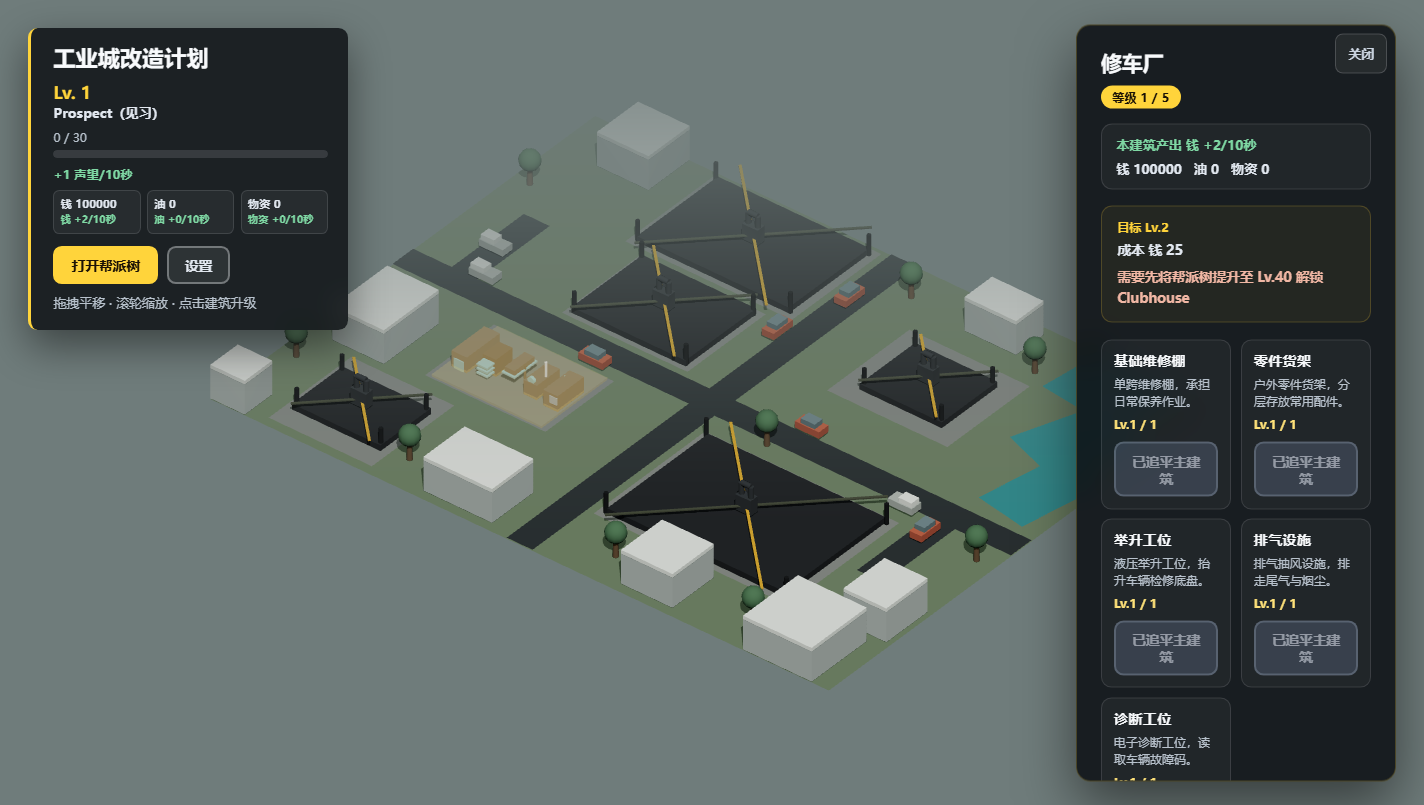
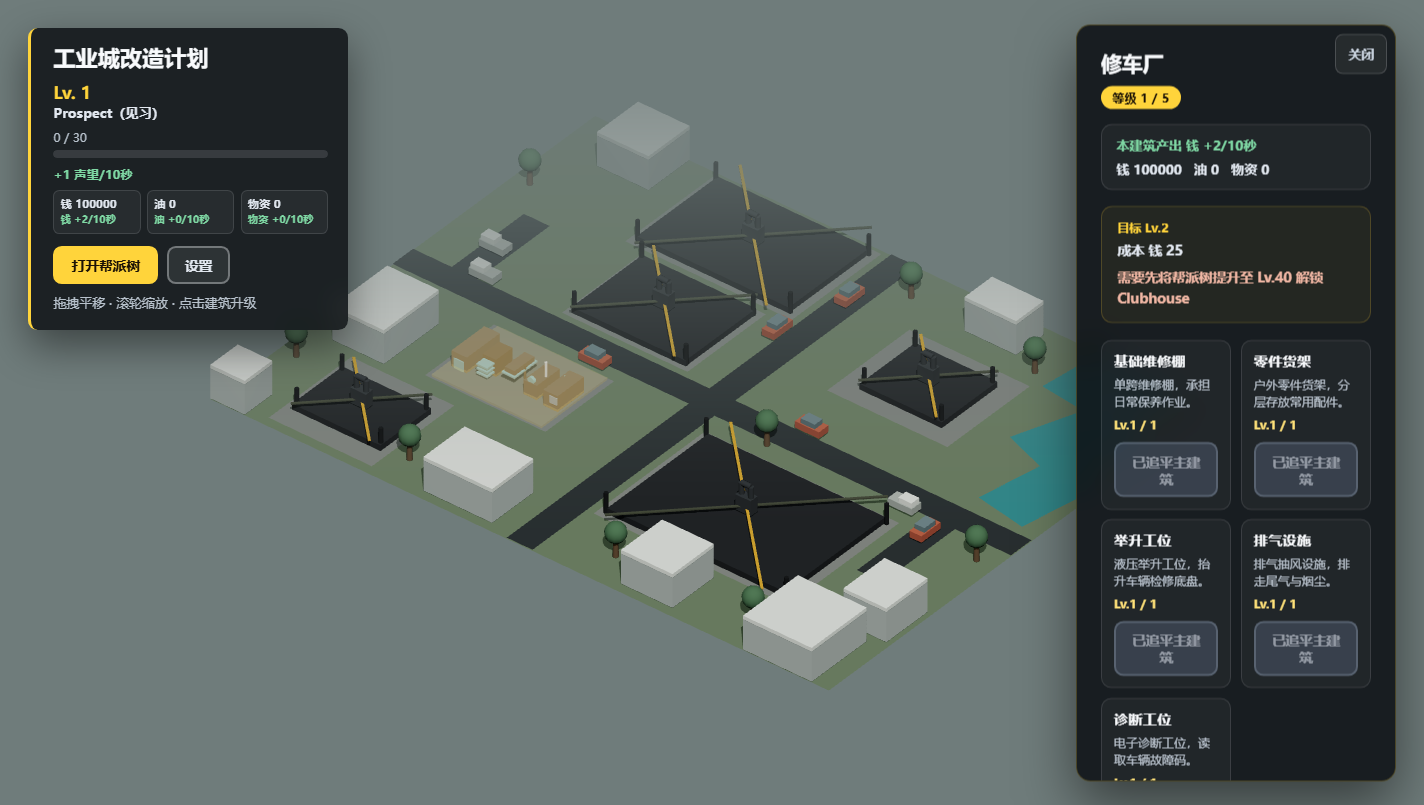
docs: refresh independent economy evidence
Record the final 420-test gate, reviewed clock rollback fix, and regenerated browser acceptance evidence before release.

diff --git a/.superpowers/sdd/independent-economy-report.md b/.superpowers/sdd/independent-economy-report.md
@@ -2,31 +2,31 @@
 
 **日期：** 2026-07-23
 **范围：** 文档、可重复安全 CDP 浏览器验收与本地发布证据。
-**发布状态：** 未 commit、未 push、未更新 GitHub Pages；分段提交、全分支终审与 Pages 发布均等待父代理。
+**发布状态：** 12 个逻辑分段提交与全分支终审已完成；尚未 push、尚未更新 GitHub Pages。
 
 ## 1. Fresh 工程门禁
 
 在干净工作区依次运行，全部退出码 0：
 
-| 命令                     | 结果                                                    |
-| ------------------------ | ------------------------------------------------------- |
-| `npm.cmd run format:check` | 通过（All matched files use Prettier code style）        |
-| `npm.cmd run typecheck`  | 通过（`tsc -b --pretty false`，退出码 0）               |
-| `npm.cmd run lint`       | 通过（`eslint .`，退出码 0）                            |
-| `npm.cmd test`           | 通过：**37 个测试文件、419 项测试**（vitest run）        |
-| `npm.cmd run build`      | 通过（`tsc -b && vite build`，退出码 0）                 |
+| 命令                       | 结果                                              |
+| -------------------------- | ------------------------------------------------- |
+| `npm.cmd run format:check` | 通过（All matched files use Prettier code style） |
+| `npm.cmd run typecheck`    | 通过（`tsc -b --pretty false`，退出码 0）         |
+| `npm.cmd run lint`         | 通过（`eslint .`，退出码 0）                      |
+| `npm.cmd test`             | 通过：**37 个测试文件、420 项测试**（vitest run） |
+| `npm.cmd run build`        | 通过（`tsc -b && vite build`，退出码 0）          |
 
 构建资产（`vite v8.1.5`）：
 
-| 资产                              | 大小        | gzip      |
-| --------------------------------- | ----------- | --------- |
-| `dist/index.html`                 | 0.41 kB     | 0.27 kB   |
-| `dist/assets/index-BSltOOxX.css`  | 15.13 kB    | 3.32 kB   |
-| `dist/assets/index-BJ6q-ZtE.js`   | 1,156.65 kB | 319.65 kB |
+| 资产                             | 大小        | gzip      |
+| -------------------------------- | ----------- | --------- |
+| `dist/index.html`                | 0.41 kB     | 0.27 kB   |
+| `dist/assets/index-BSltOOxX.css` | 15.13 kB    | 3.32 kB   |
+| `dist/assets/index-BqDEkGFJ.js`  | 1,156.68 kB | 319.66 kB |
 
 `dist/index.html` 的资源引用均以 `/DobeDemo/` 开头：
 
-- `/DobeDemo/assets/index-BJ6q-ZtE.js`
+- `/DobeDemo/assets/index-BqDEkGFJ.js`
 - `/DobeDemo/assets/index-BSltOOxX.css`
 
 > 构建的 “chunks larger than 500 kB” 只是提示（stderr），构建退出码为 0，非错误。
@@ -53,31 +53,31 @@
 
 真实 Chrome（headless，1440×900）经 CDP 驱动。允许注入合法 v2 `localStorage` 并 reload 加速场景，但下列真实交互均实际发生：真实等待 10 秒钱产出、真实鼠标点击第 5 个修车厂子建筑、真实点击 Clubhouse/修车厂主建筑升级、真实测量移动视口。
 
-| # | 断言 | 证据 |
-| --- | --- | --- |
-| 1 | fresh v2 存档：修车厂 Lv.1、5 子建筑全 0、资源全 0 | `city.version=2`，`repair-shop {level:1, childLevels:[0,0,0,0,0]}`，`resources {0,0,0}` |
-| 1b | HUD 显示 `+1 声望/10秒` 与 `钱 +1/10秒` | HUD rate `+1 声望/10秒`，资源含 `钱 +1/10秒` |
-| 2 | 10 秒后钱精确 +1 | `moneyBefore=0` → `moneyAfter=1`（9.999 秒无收益由纯单测覆盖） |
-| 3 | 真实点击第 5 个修车厂子建筑（诊断工位），数组变 `[0,0,0,0,1]` 并扣 5 钱 | `childLevelsBefore=[0,0,0,0,0]`，`childLevelsAfter=[0,0,0,0,1]`，`moneySpent=5` |
-| 4 | 第 5 槽 3D ROI 变化，其余子建筑数据不变 | ROI 变化 **650/125320 px**（阈值 40），其余 index 保持 0 |
-| 5 | 五子建筑全 Lv.1 后 Clubhouse 未解锁精确提示 | `需要先将帮派树提升至 Lv.40 解锁 Clubhouse` |
-| 6 | 注入帮派 Lv.40、Clubhouse Lv.1 后门槛提示 | `需要先将 Clubhouse 提升至 Lv.2` |
-| 7 | 真实升级 Clubhouse 10 子建筑→Lv.2，再升修车厂→Lv.2 | Clubhouse `等级 1/10`→`等级 2/10`（存档 2）；修车厂 `等级 1/5`→`等级 2/5`（存档 2，childLevels `[1,1,1,1,1]`） |
-| 8 | 刷新后钱包、active producers、主/子等级持久 | 刷新后 repair Lv.2 `[1,1,1,1,1]`、clubhouse Lv.2、producers `[repair-shop, commercial-street, metalworking-plant, gas-station]`、钱包 `99954`→`99954` |
-| 9 | 激活商业街/加油站/金属加工厂后三资源按配置增长 | 一个 tick 后 `money=3, oil=1, materials=1`（钱=油×3、物资=油），HUD `钱 +3/10秒`、`油 +1/10秒`、`物资 +1/10秒` |
-| 10 | 非 Clubhouse Lv.5、Clubhouse Lv.10 上限注入后按钮禁用 | 修车厂 `等级 5/5` 无主升级按钮、`已达到最高等级 Lv.5`；Clubhouse `等级 10/10` 无主升级按钮、`已达到最高等级 Lv.10` |
-| 11 | 390×844 无横向溢出且可滚动 | `withinBounds=true`、`noHorizontalOverflow=true`、`scrollableOrFits=true` |
-| 12 | dev/CDP 端口释放、临时 profile 删除、仅 owned PID 被 targeting | `devPortReleased/cdpPortReleased/tempProfileRemoved=true`，`unknownProcessesTerminated=false`，killAttempts 全 owned |
+| #   | 断言                                                                    | 证据                                                                                                                                                  |
+| --- | ----------------------------------------------------------------------- | ----------------------------------------------------------------------------------------------------------------------------------------------------- |
+| 1   | fresh v2 存档：修车厂 Lv.1、5 子建筑全 0、资源全 0                      | `city.version=2`，`repair-shop {level:1, childLevels:[0,0,0,0,0]}`，`resources {0,0,0}`                                                               |
+| 1b  | HUD 显示 `+1 声望/10秒` 与 `钱 +1/10秒`                                 | HUD rate `+1 声望/10秒`，资源含 `钱 +1/10秒`                                                                                                          |
+| 2   | 10 秒后钱精确 +1                                                        | `moneyBefore=0` → `moneyAfter=1`（9.999 秒无收益由纯单测覆盖）                                                                                        |
+| 3   | 真实点击第 5 个修车厂子建筑（诊断工位），数组变 `[0,0,0,0,1]` 并扣 5 钱 | `childLevelsBefore=[0,0,0,0,0]`，`childLevelsAfter=[0,0,0,0,1]`，`moneySpent=5`                                                                       |
+| 4   | 第 5 槽 3D ROI 变化，其余子建筑数据不变                                 | ROI 变化 **650/125320 px**（阈值 40），其余 index 保持 0                                                                                              |
+| 5   | 五子建筑全 Lv.1 后 Clubhouse 未解锁精确提示                             | `需要先将帮派树提升至 Lv.40 解锁 Clubhouse`                                                                                                           |
+| 6   | 注入帮派 Lv.40、Clubhouse Lv.1 后门槛提示                               | `需要先将 Clubhouse 提升至 Lv.2`                                                                                                                      |
+| 7   | 真实升级 Clubhouse 10 子建筑→Lv.2，再升修车厂→Lv.2                      | Clubhouse `等级 1/10`→`等级 2/10`（存档 2）；修车厂 `等级 1/5`→`等级 2/5`（存档 2，childLevels `[1,1,1,1,1]`）                                        |
+| 8   | 刷新后钱包、active producers、主/子等级持久                             | 刷新后 repair Lv.2 `[1,1,1,1,1]`、clubhouse Lv.2、producers `[repair-shop, commercial-street, metalworking-plant, gas-station]`、钱包 `99954`→`99954` |
+| 9   | 激活商业街/加油站/金属加工厂后三资源按配置增长                          | 一个 tick 后 `money=3, oil=1, materials=1`（钱=油×3、物资=油），HUD `钱 +3/10秒`、`油 +1/10秒`、`物资 +1/10秒`                                        |
+| 10  | 非 Clubhouse Lv.5、Clubhouse Lv.10 上限注入后按钮禁用                   | 修车厂 `等级 5/5` 无主升级按钮、`已达到最高等级 Lv.5`；Clubhouse `等级 10/10` 无主升级按钮、`已达到最高等级 Lv.10`                                    |
+| 11  | 390×844 无横向溢出且可滚动                                              | `withinBounds=true`、`noHorizontalOverflow=true`、`scrollableOrFits=true`                                                                             |
+| 12  | dev/CDP 端口释放、临时 profile 删除、仅 owned PID 被 targeting          | `devPortReleased/cdpPortReleased/tempProfileRemoved=true`，`unknownProcessesTerminated=false`，killAttempts 全 owned                                  |
 
 ## 4. 截图（均由脚本生成、非空）
 
-| 文件 | 内容 | 大小 |
-| --- | --- | --- |
-| `independent-economy-initial.png` | fresh v2：修车厂 Lv.1、5 子建筑全脚手架、三资源 HUD 归零 | 133 KB |
-| `independent-economy-free-choice.png` | 真实点击后第 5 子建筑（诊断工位）Lv.1，其余为脚手架，三资源 HUD | 182 KB |
-| `independent-economy-gate.png` | Clubhouse 未解锁门槛文本 | 182 KB |
-| `independent-economy-resources.png` | Lv.40 下 `钱 +3/10秒`、`油 +1/10秒`、`物资 +1/10秒`，全城建筑解锁 | 148 KB |
-| `independent-economy-mobile.png` | 390×844 建筑面板底部抽屉，无横向溢出 | 98 KB |
+| 文件                                  | 内容                                                              | 大小   |
+| ------------------------------------- | ----------------------------------------------------------------- | ------ |
+| `independent-economy-initial.png`     | fresh v2：修车厂 Lv.1、5 子建筑全脚手架、三资源 HUD 归零          | 133 KB |
+| `independent-economy-free-choice.png` | 真实点击后第 5 子建筑（诊断工位）Lv.1，其余为脚手架，三资源 HUD   | 182 KB |
+| `independent-economy-gate.png`        | Clubhouse 未解锁门槛文本                                          | 182 KB |
+| `independent-economy-resources.png`   | Lv.40 下 `钱 +3/10秒`、`油 +1/10秒`、`物资 +1/10秒`，全城建筑解锁 | 148 KB |
+| `independent-economy-mobile.png`      | 390×844 建筑面板底部抽屉，无横向溢出                              | 98 KB  |
 
 > 另有中间证据 `independent-economy-free-choice-before.png`（点击前脚手架态），用于 ROI 前后像素差比对。
 
@@ -92,21 +92,23 @@
 
 ## 6. 文档更新
 
-- `README.md`：改写核心玩法为独立子建筑（修车厂 5/其余 10、Lv.0 自由升级）、三资源生产与 8 小时离线、每 10 秒 +1 声望、Clubhouse 上限/门槛、`economy.config.json` 配置 EXE 契约；测试基线更新为 37 文件/419 项；新增本验收脚本引用；删除旧固定顺序碎片与每秒 5 声望表述。
+- `README.md`：改写核心玩法为独立子建筑（修车厂 5/其余 10、Lv.0 自由升级）、三资源生产与 8 小时离线、每 10 秒 +1 声望、Clubhouse 上限/门槛、`economy.config.json` 配置 EXE 契约；测试基线更新为 37 文件/420 项；新增本验收脚本引用；删除旧固定顺序碎片与每秒 5 声望表述。
 - `session/requirements/gang-tree-idle-unlocks.md`：删除“每秒 5 声望”“固定顺序碎片闭环”矛盾文本，改为每 10 秒 +1 与独立子建筑三资源闭环，注明配置 JSON 契约。
 - `session/session.md`：更新当前目标，新增独立经济与 Task6 本地验收两条变更总账。
-- `docs/superpowers/plans/2026-07-23-independent-subbuilding-economy.md`：勾选 Task 1–5 全部步骤与 Task 6 Step 1–4；Step 5（分段提交与终审）、Step 6（推送和 Pages）保持未勾，待父代理。
+- `docs/superpowers/plans/2026-07-23-independent-subbuilding-economy.md`：勾选 Task 1–5 全部步骤与 Task 6 Step 1–5；Step 6（推送和 Pages）保持未勾。
 
-## 7. 待父代理发布步骤（本次未执行）
+## 7. 全分支终审
 
-1. 按审查通过的逻辑分段提交到 `main`（config+纯规则 → v2 迁移+原子 Store → idle+HUD → 独立 3D → 自由选择面板 → 验收+文档）。
-2. 运行全分支审查，修复所有 Critical/Important，再跑一次 fresh 全门禁。
-3. 普通推送 `main`（禁止 force push）。
-4. fresh `dist`（`/DobeDemo/` base）经独立临时 index 快进更新 `gh-pages`。
-5. 等待最新 Pages build 的 commit 精确匹配且 `status=built`，校验公开 HTML 与当前 JS/CSS HTTP 200。
-6. 真实 Chrome 加载公开 URL 截图（三资源 HUD + 修车厂五子建筑面板），更新发布报告与 session，再次普通推送 `main`。
+完整分支 `116ea09..2f227e2` 终审结论为 **Approved**，无 Critical/Important。终审指出系统时钟回拨且生产者集合变化时，生产时间戳可能被回拨；已用 RED→GREEN 回归测试修复为不早于结算时间戳。修复增量 `2f227e2..f52dea8` 复审同样为 **Approved**，并在修复后 fresh 运行全部工程门禁与浏览器验收。
 
-## 8. 复现命令
+## 8. 待发布步骤
+
+1. 普通推送 `main`（禁止 force push）。
+2. fresh `dist`（`/DobeDemo/` base）经独立临时 index 快进更新 `gh-pages`。
+3. 等待最新 Pages build 的 commit 精确匹配且 `status=built`，校验公开 HTML 与当前 JS/CSS HTTP 200。
+4. 真实 Chrome 加载公开 URL 截图（三资源 HUD + 修车厂五子建筑面板），更新发布报告与 session，再次普通推送 `main`。
+
+## 9. 复现命令
 
 ```powershell
 npm.cmd run format:check

diff --git a/session/session.md b/session/session.md
@@ -10,38 +10,38 @@
 
 ## 角色
 
-| 角色 | 职责 |
-|------|------|
-| 用户（游戏策划/制作人） | 提出需求、确认设计、验收 Demo |
+| 角色                    | 职责                                |
+| ----------------------- | ----------------------------------- |
+| 用户（游戏策划/制作人） | 提出需求、确认设计、验收 Demo       |
 | 助手（Demo 技术负责人） | 实现可运行 Demo、维护工程与治理文档 |
 
 ## 变更总账
 
-| 日期 | 变更摘要 | 类型 |
-|------|----------|------|
-| 2026-07-22 | 初始化项目治理文档：创建 `rules/`、`session/`、`mistakes/`、`docs/beagle_glossary.md`；将三份规范移至 `spec/` | 脚手架 |
-| 2026-07-22 | 完成工程配置、Zustand store、HUD、3D 场景、错误边界与应用组装；全量通过格式、类型、Lint、8 项测试（4 个测试文件）、生产构建及开发服务器 HTTP 200 验证 | 环境交付 |
-| 2026-07-22 | 新增城市建筑数据、目录与升级纯函数（`src/game`），六座建筑类型、footprint、配色与三级说明 | 城市数据 |
-| 2026-07-22 | 新增 `useCityStore`（选中/升级/清空选择/reset），替代旧 `useDemoStore` 承载城市互动状态 | 城市状态 |
-| 2026-07-22 | 新增 `CityHud`、`BuildingPanel` 城市 UI 组件及交互测试（含事件不外泄父级场景） | 城市 UI |
-| 2026-07-22 | 新增六类建筑三级程序化几何视觉配置（`buildingVisualConfig`）与命中盒高度不变量校验 | 城市模型 |
-| 2026-07-22 | 新增城市地面、静态环境、镜头平移边界约束与 `CityScene` 场景组合；完整静态布局空间不重叠校验 | 城市场景 |
-| 2026-07-22 | `App.tsx` 切换为正交相机 + `CityScene` + `CityHud` + `BuildingPanel`；新增响应式桌面控制台样式（`App.css`，小屏底部抽屉、`prefers-reduced-motion`）；删除旧 Demo 文件（`DemoScene`、`RotatingCube`、`useDemoStore`、`DemoHud` 及其测试） | 集成与验证 |
-| 2026-07-22 | 全量通过格式、类型、Lint、Format Check、测试（10 个测试文件、61 项）、生产构建及开发服务器 HTTP 200 验证；无头 Chrome 截图确认城市场景渲染 | 集成与验证 |
-| 2026-07-22 | 将建筑序列调整为修车厂、废车回收厂、商业街、金属加工厂、加油站、Clubhouse；以金属加工厂替换物流中心并补齐三级程序化视觉 | 帮派建筑 |
-| 2026-07-22 | 新增 1–50 级帮派进度纯规则：七个职位阈值、六建筑解锁映射、每级 30 声望、每秒 5 声望、1470 满级封顶与 8 小时离线结算 | 帮派规则 |
-| 2026-07-22 | 新增持久 `useGangStore`、安全 localStorage 内存回退和 `GangIdleController`；覆盖完整秒余量、系统时间异常、StrictMode、rehydrate 与离线 cap | 帮派状态 |
-| 2026-07-22 | 新增 HUD 帮派进度、50 节点帮派树 modal、锁定建筑信息面板、程序化 3D 锁定地块及达到阈值后的实时建筑切换 | 帮派 UI 与场景 |
-| 2026-07-22 | 帮派树系统全量通过格式、类型、Lint、测试（17 个测试文件、182 项）、生产构建和 `127.0.0.1:5176` HTTP 200；两张无头 Chrome 截图确认默认锁定城市与帮派树面板 | 集成与验证 |
-| 2026-07-22 | 初始化 Git 并保留远端初始历史，将工程、规则、场景、文档、图片和发布配置拆分为 6 个主线提交；最大单文件约 2.75 MB | 版本发布 |
-| 2026-07-22 | 推送 `main` 与独立 `gh-pages` 产物分支，GitHub Pages 构建成功；公开地址及 JS/CSS 资源均返回 HTTP 200 | GitHub Pages |
-| 2026-07-23 | 城市严格重排：共享 AABB 几何工具（`placementGeometry.ts`）+ 碰撞矩阵校验；六座建筑同心落于地块、道路/河流/树/车辆保持 0.2–0.35 安全间距、主路十字与两支路连续 | 城市布局 |
-| 2026-07-23 | 输入手势升级：左键/右键/单指显式映射 PAN、双指 DOLLY_PAN；指针拖动跟踪（阈值 6px）+ 误点击抑制 + 光标归属，覆盖 Chrome pointerup→lostpointercapture→click 序列 | 输入手势 |
-| 2026-07-23 | Task5 最终验收：格式/类型/Lint/测试（26 文件、278 项）/构建全绿；`127.0.0.1:5177` HTTP 200；Chrome/CDP 真机左键/右键/单指拖动前后像素差 26%–29%，普通点击出面板、拖动 >6px 不误选；未 commit/push、Pages 未更新 | 集成与验证 |
-| 2026-07-23 | 碎片升级：六座建筑改为 1–10 级碎片闭环（升到 Lv.N 逐个完成 N 个子建筑再确认），程序化十槽子建筑蓝图 + 3D 入场动画 + Setup 面板；城市进度持久化于 `dobe-city-progression-v1` | 碎片升级 |
-| 2026-07-23 | 碎片升级 Task6 验收：格式/类型/Lint/测试（32 文件、391 项）/构建全绿；`dist` 资源以 `/DobeDemo/` 开头；`127.0.0.1:5188` HTTP 200；Chrome/CDP 真机点修车厂 Lv.1/10·0/2→逐碎片 1/2（Canvas 变化 299px）→刷新持久→确认 Lv.2·0/3→注入 Lv.10 存档满级 10 格禁用；桌面 1440×900 与移动 390×844 面板不溢出可滚动；未 commit/push、Pages 未更新 | 集成与验证 |
-| 2026-07-23 | 碎片升级发布：13 个分段提交普通推送到 `main`；参考视频 13,691,237 bytes 独立提交；`gh-pages` 更新至 `46a9025`。公开首页及当前 JS/CSS 均 HTTP 200，真实 Chrome 加载截图确认新城市版本渲染；最终跨任务审查无 Critical/Important | GitHub Pages |
-| 2026-07-23 | 调试设置账号重置：HUD 设置入口、可访问设置面板、二次确认及双 Zustand store 协调重置已集成；本地格式/类型/Lint/测试（34 文件、404 项）/构建全绿。安全 Chrome/CDP 八步验收 33/33 通过，确认态、重置完成和 390×844 移动抽屉截图齐全；仅终止脚本自建 PID 并释放端口、清理独立 profile。未 commit/push，公开发布待父代理发布 | 集成与验证 |
-| 2026-07-23 | 调试设置发布：6 个分段提交普通推送到 `main`；`gh-pages` 快进至 `1d58eff`，Pages 构建 `built`。公开首页及当前 JS/CSS 均 HTTP 200，真实 Chrome 截图确认“设置”入口与 3D 城市正常渲染；全分支终审无 Critical/Important | GitHub Pages |
-| 2026-07-23 | 独立子建筑与三资源经济：固定顺序碎片改为独立子建筑自由升级（修车厂 5/其余 10、Lv.0 起、追平后升主建筑）、新增钱/油/物资 10 秒生产与升级消耗、Clubhouse Lv.10 其余 Lv.5 上限与门槛、帮派每 10 秒 +1、v1→v2 迁移与原子 Store；数值外置到 `economy.config.json`（冻结配置 EXE 契约，本次无 EXE） | 独立经济 |
-| 2026-07-23 | 独立经济 Task6 本地验收：fresh 门禁 format/typecheck/lint/测试（37 文件、419 项）/构建全绿，`dist` 资源以 `/DobeDemo/` 开头；安全 Chrome/CDP 脚本 `independent-economy-cdp.mjs` 12 项断言全通过（fresh v2、10 秒 +1 钱、真实点击第 5 子建筑数组[0,0,0,0,1]+ROI 变化 650px、两条 Clubhouse 门槛文本、Clubhouse→修车厂真实升级闭环、刷新持久、三资源 10 秒 3/1/1、Lv.5/Lv.10 禁用、390×844 无横向溢出）；仅终止自建 PID、端口释放、临时 profile 清理。未 commit/push，分段提交与 Pages 待父代理 | 集成与验证 |
+| 日期       | 变更摘要                                                                                                                                                                                                                                                                                                                                                                                                                                                                                  | 类型           |
+| ---------- | ----------------------------------------------------------------------------------------------------------------------------------------------------------------------------------------------------------------------------------------------------------------------------------------------------------------------------------------------------------------------------------------------------------------------------------------------------------------------------------------- | -------------- |
+| 2026-07-22 | 初始化项目治理文档：创建 `rules/`、`session/`、`mistakes/`、`docs/beagle_glossary.md`；将三份规范移至 `spec/`                                                                                                                                                                                                                                                                                                                                                                             | 脚手架         |
+| 2026-07-22 | 完成工程配置、Zustand store、HUD、3D 场景、错误边界与应用组装；全量通过格式、类型、Lint、8 项测试（4 个测试文件）、生产构建及开发服务器 HTTP 200 验证                                                                                                                                                                                                                                                                                                                                     | 环境交付       |
+| 2026-07-22 | 新增城市建筑数据、目录与升级纯函数（`src/game`），六座建筑类型、footprint、配色与三级说明                                                                                                                                                                                                                                                                                                                                                                                                 | 城市数据       |
+| 2026-07-22 | 新增 `useCityStore`（选中/升级/清空选择/reset），替代旧 `useDemoStore` 承载城市互动状态                                                                                                                                                                                                                                                                                                                                                                                                   | 城市状态       |
+| 2026-07-22 | 新增 `CityHud`、`BuildingPanel` 城市 UI 组件及交互测试（含事件不外泄父级场景）                                                                                                                                                                                                                                                                                                                                                                                                            | 城市 UI        |
+| 2026-07-22 | 新增六类建筑三级程序化几何视觉配置（`buildingVisualConfig`）与命中盒高度不变量校验                                                                                                                                                                                                                                                                                                                                                                                                        | 城市模型       |
+| 2026-07-22 | 新增城市地面、静态环境、镜头平移边界约束与 `CityScene` 场景组合；完整静态布局空间不重叠校验                                                                                                                                                                                                                                                                                                                                                                                               | 城市场景       |
+| 2026-07-22 | `App.tsx` 切换为正交相机 + `CityScene` + `CityHud` + `BuildingPanel`；新增响应式桌面控制台样式（`App.css`，小屏底部抽屉、`prefers-reduced-motion`）；删除旧 Demo 文件（`DemoScene`、`RotatingCube`、`useDemoStore`、`DemoHud` 及其测试）                                                                                                                                                                                                                                                  | 集成与验证     |
+| 2026-07-22 | 全量通过格式、类型、Lint、Format Check、测试（10 个测试文件、61 项）、生产构建及开发服务器 HTTP 200 验证；无头 Chrome 截图确认城市场景渲染                                                                                                                                                                                                                                                                                                                                                | 集成与验证     |
+| 2026-07-22 | 将建筑序列调整为修车厂、废车回收厂、商业街、金属加工厂、加油站、Clubhouse；以金属加工厂替换物流中心并补齐三级程序化视觉                                                                                                                                                                                                                                                                                                                                                                   | 帮派建筑       |
+| 2026-07-22 | 新增 1–50 级帮派进度纯规则：七个职位阈值、六建筑解锁映射、每级 30 声望、每秒 5 声望、1470 满级封顶与 8 小时离线结算                                                                                                                                                                                                                                                                                                                                                                       | 帮派规则       |
+| 2026-07-22 | 新增持久 `useGangStore`、安全 localStorage 内存回退和 `GangIdleController`；覆盖完整秒余量、系统时间异常、StrictMode、rehydrate 与离线 cap                                                                                                                                                                                                                                                                                                                                                | 帮派状态       |
+| 2026-07-22 | 新增 HUD 帮派进度、50 节点帮派树 modal、锁定建筑信息面板、程序化 3D 锁定地块及达到阈值后的实时建筑切换                                                                                                                                                                                                                                                                                                                                                                                    | 帮派 UI 与场景 |
+| 2026-07-22 | 帮派树系统全量通过格式、类型、Lint、测试（17 个测试文件、182 项）、生产构建和 `127.0.0.1:5176` HTTP 200；两张无头 Chrome 截图确认默认锁定城市与帮派树面板                                                                                                                                                                                                                                                                                                                                 | 集成与验证     |
+| 2026-07-22 | 初始化 Git 并保留远端初始历史，将工程、规则、场景、文档、图片和发布配置拆分为 6 个主线提交；最大单文件约 2.75 MB                                                                                                                                                                                                                                                                                                                                                                          | 版本发布       |
+| 2026-07-22 | 推送 `main` 与独立 `gh-pages` 产物分支，GitHub Pages 构建成功；公开地址及 JS/CSS 资源均返回 HTTP 200                                                                                                                                                                                                                                                                                                                                                                                      | GitHub Pages   |
+| 2026-07-23 | 城市严格重排：共享 AABB 几何工具（`placementGeometry.ts`）+ 碰撞矩阵校验；六座建筑同心落于地块、道路/河流/树/车辆保持 0.2–0.35 安全间距、主路十字与两支路连续                                                                                                                                                                                                                                                                                                                             | 城市布局       |
+| 2026-07-23 | 输入手势升级：左键/右键/单指显式映射 PAN、双指 DOLLY_PAN；指针拖动跟踪（阈值 6px）+ 误点击抑制 + 光标归属，覆盖 Chrome pointerup→lostpointercapture→click 序列                                                                                                                                                                                                                                                                                                                            | 输入手势       |
+| 2026-07-23 | Task5 最终验收：格式/类型/Lint/测试（26 文件、278 项）/构建全绿；`127.0.0.1:5177` HTTP 200；Chrome/CDP 真机左键/右键/单指拖动前后像素差 26%–29%，普通点击出面板、拖动 >6px 不误选；未 commit/push、Pages 未更新                                                                                                                                                                                                                                                                           | 集成与验证     |
+| 2026-07-23 | 碎片升级：六座建筑改为 1–10 级碎片闭环（升到 Lv.N 逐个完成 N 个子建筑再确认），程序化十槽子建筑蓝图 + 3D 入场动画 + Setup 面板；城市进度持久化于 `dobe-city-progression-v1`                                                                                                                                                                                                                                                                                                               | 碎片升级       |
+| 2026-07-23 | 碎片升级 Task6 验收：格式/类型/Lint/测试（32 文件、391 项）/构建全绿；`dist` 资源以 `/DobeDemo/` 开头；`127.0.0.1:5188` HTTP 200；Chrome/CDP 真机点修车厂 Lv.1/10·0/2→逐碎片 1/2（Canvas 变化 299px）→刷新持久→确认 Lv.2·0/3→注入 Lv.10 存档满级 10 格禁用；桌面 1440×900 与移动 390×844 面板不溢出可滚动；未 commit/push、Pages 未更新                                                                                                                                                   | 集成与验证     |
+| 2026-07-23 | 碎片升级发布：13 个分段提交普通推送到 `main`；参考视频 13,691,237 bytes 独立提交；`gh-pages` 更新至 `46a9025`。公开首页及当前 JS/CSS 均 HTTP 200，真实 Chrome 加载截图确认新城市版本渲染；最终跨任务审查无 Critical/Important                                                                                                                                                                                                                                                             | GitHub Pages   |
+| 2026-07-23 | 调试设置账号重置：HUD 设置入口、可访问设置面板、二次确认及双 Zustand store 协调重置已集成；本地格式/类型/Lint/测试（34 文件、404 项）/构建全绿。安全 Chrome/CDP 八步验收 33/33 通过，确认态、重置完成和 390×844 移动抽屉截图齐全；仅终止脚本自建 PID 并释放端口、清理独立 profile。未 commit/push，公开发布待父代理发布                                                                                                                                                                   | 集成与验证     |
+| 2026-07-23 | 调试设置发布：6 个分段提交普通推送到 `main`；`gh-pages` 快进至 `1d58eff`，Pages 构建 `built`。公开首页及当前 JS/CSS 均 HTTP 200，真实 Chrome 截图确认“设置”入口与 3D 城市正常渲染；全分支终审无 Critical/Important                                                                                                                                                                                                                                                                        | GitHub Pages   |
+| 2026-07-23 | 独立子建筑与三资源经济：固定顺序碎片改为独立子建筑自由升级（修车厂 5/其余 10、Lv.0 起、追平后升主建筑）、新增钱/油/物资 10 秒生产与升级消耗、Clubhouse Lv.10 其余 Lv.5 上限与门槛、帮派每 10 秒 +1、v1→v2 迁移与原子 Store；数值外置到 `economy.config.json`（冻结配置 EXE 契约，本次无 EXE）                                                                                                                                                                                             | 独立经济       |
+| 2026-07-23 | 独立经济本地验收与终审：fresh 门禁 format/typecheck/lint/测试（37 文件、420 项）/构建全绿，`dist` 资源以 `/DobeDemo/` 开头；安全 Chrome/CDP 12 项断言全通过（fresh v2、10 秒 +1 钱、真实点击第 5 子建筑数组[0,0,0,0,1]+ROI 变化 650px、两条 Clubhouse 门槛文本、Clubhouse→修车厂真实升级闭环、刷新持久、三资源 10 秒 3/1/1、Lv.5/Lv.10 禁用、390×844 无横向溢出）；终审无 Critical/Important，并补充生产者变化时系统时钟回拨回归测试。12 个逻辑分段提交已完成，`main` 推送与 Pages 待发布 | 集成与验证     |

diff --git a/docs/superpowers/plans/2026-07-23-independent-subbuilding-economy.md b/docs/superpowers/plans/2026-07-23-independent-subbuilding-economy.md
@@ -79,19 +79,14 @@ export interface EconomyConfig {
   maxOfflineSeconds: 28_800
   production: Partial<Record<BuildingId, ProductionConfig>>
   childUpgradeCostByTargetLevel: Record<BuildingLevel, ResourceCost>
-  buildingUpgradeCostByTargetLevel: Partial<
-    Record<BuildingLevel, ResourceCost>
-  >
+  buildingUpgradeCostByTargetLevel: Partial<Record<BuildingLevel, ResourceCost>>
 }
 
 export function parseEconomyConfig(value: unknown): EconomyConfig
 export const economyConfig: EconomyConfig
 export const EMPTY_WALLET: ResourceWallet
 
-export function canAfford(
-  wallet: ResourceWallet,
-  cost: ResourceCost,
-): boolean
+export function canAfford(wallet: ResourceWallet, cost: ResourceCost): boolean
 export function subtractCost(
   wallet: ResourceWallet,
   cost: ResourceCost,
@@ -156,9 +151,7 @@ JSON 数值逐字复制设计规格。解析器：
 测试：
 
 ```ts
-expect(() => parseEconomyConfig({})).toThrow(
-  'Invalid economy config: version',
-)
+expect(() => parseEconomyConfig({})).toThrow('Invalid economy config: version')
 expect(() =>
   parseEconomyConfig({
     ...valid,
@@ -183,9 +176,11 @@ expect(subtractCost({ money: 5, oil: 2, materials: 3 }, cost5)).toEqual({
   oil: 2,
   materials: 3,
 })
-expect(
-  getBuildingProductionPerTick('repair-shop', [1, 1, 1, 1, 1]),
-).toEqual({ money: 2, oil: 0, materials: 0 })
+expect(getBuildingProductionPerTick('repair-shop', [1, 1, 1, 1, 1])).toEqual({
+  money: 2,
+  oil: 0,
+  materials: 0,
+})
 ```
 
 资源结算覆盖 9.999 秒为 0、10 秒一 tick、25 秒两 tick并保留 5 秒余量、8 小时封顶、无 active producer 为 0、非法时间 no-op。
@@ -196,8 +191,7 @@ expect(
 
 ```ts
 perTick =
-  basePerTick +
-  Math.floor(sum(childLevels) / childLevelStep) * bonusPerStep
+  basePerTick + Math.floor(sum(childLevels) / childLevelStep) * bonusPerStep
 ```
 
 结算使用完整 tick；达到离线上限时 `nextUpdatedAt = now`，否则保留余量：
@@ -686,9 +680,7 @@ Expected: all exit 0.
 给钱包 5 钱，先点第五张：
 
 ```ts
-await user.click(
-  screen.getByRole('button', { name: '升级 诊断工位 至 Lv.1' }),
-)
+await user.click(screen.getByRole('button', { name: '升级 诊断工位 至 Lv.1' }))
 expect(childLevels).toEqual([0, 0, 0, 0, 1])
 expect(resources.money).toBe(0)
 ```
@@ -833,7 +825,7 @@ README 写明：
 
 session/requirements 删除旧的固定顺序碎片描述，避免并存矛盾。
 
-- [ ] **Step 5: 分段提交与终审**
+- [x] **Step 5: 分段提交与终审**
 
 父代理按审查通过的逻辑分段提交：
 

diff --git a/README.md b/README.md
@@ -99,7 +99,7 @@ npm test
 npm run build
 ```
 
-当前验收基线：37 个测试文件、419 项测试。
+当前验收基线：37 个测试文件、420 项测试。
 
 独立子建筑经济的可重复浏览器验收脚本为 `.superpowers/sdd/independent-economy-cdp.mjs`（安全模式：动态选择空闲端口、`--strictPort`、仅终止脚本自建 PID、临时 profile 删除前校验前缀、结果 JSON 只记录 basename、错误脱敏、坏数据自测、失败非零退出）。它覆盖 fresh v2 存档、10 秒钱产出、真实点击第五个修车厂子建筑并校验数组与 3D ROI 变化、两条 Clubhouse 门槛文本、Clubhouse→修车厂真实升级闭环、刷新持久化、三资源 10 秒增长、Lv.5/Lv.10 上限禁用与 390×844 移动面板，结果与截图见 `.superpowers/sdd/independent-economy-*`。
 